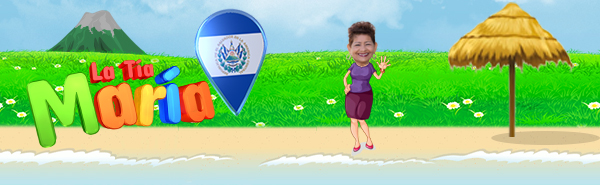
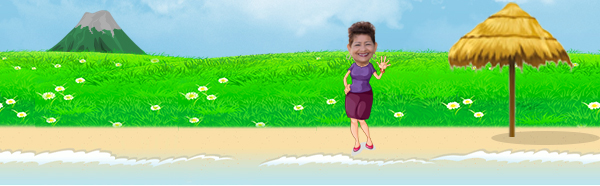
edd

Changed region(s): [[0.03, 0.0269, 0.45, 0.8065]]

diff --git a/wp-content/themes/themeLatiamaria/css/main.css b/wp-content/themes/themeLatiamaria/css/main.css
@@ -1,1 +1,1 @@
[2 lines of base64/hex data omitted]

diff --git a/wp-content/themes/themeLatiamaria/css/main.less b/wp-content/themes/themeLatiamaria/css/main.less
@@ -329,6 +329,17 @@
 	h1, .h1{
 		font-size: 25px;
 	}
+	.bg-banner{
+		background-image: url("../img/main-banner-mobile.jpg");
+		height: 185px;
+		background-position: left center;
+	}
+	.logo{
+		top: 20px;
+		img{
+			width: 215px;
+		}
+	}
 }
 @media (max-width:380px){
 	.wrap-video .item-video{

diff --git a/wp-content/themes/themeLatiamaria/css/ie7fix.css b/wp-content/themes/themeLatiamaria/css/ie7fix.css
@@ -1,3 +1,6 @@
 #main-nav ul li{float: left;}
 #main-nav{background-color: #0085bc;}
 #main-nav ul.social_nav li a{padding: 0;}
+.woocommerce ul.products li.product, .woocommerce-page ul.products li.product{
+	height: 350px;
+}

diff --git a/wp-content/themes/themeLatiamaria/template-homepage.php b/wp-content/themes/themeLatiamaria/template-homepage.php
@@ -5,7 +5,7 @@
 get_header();
 ?>
     <div class="container">
-      <div class="wrap-video" style="background-color: #fff;">
+      <div class="wrap-video" style="background-color: #fff; text-align:center;">
         <?php if (have_posts()) : ?>
             <?php while (have_posts()) : the_post(); ?>
               <?php the_content();?>
